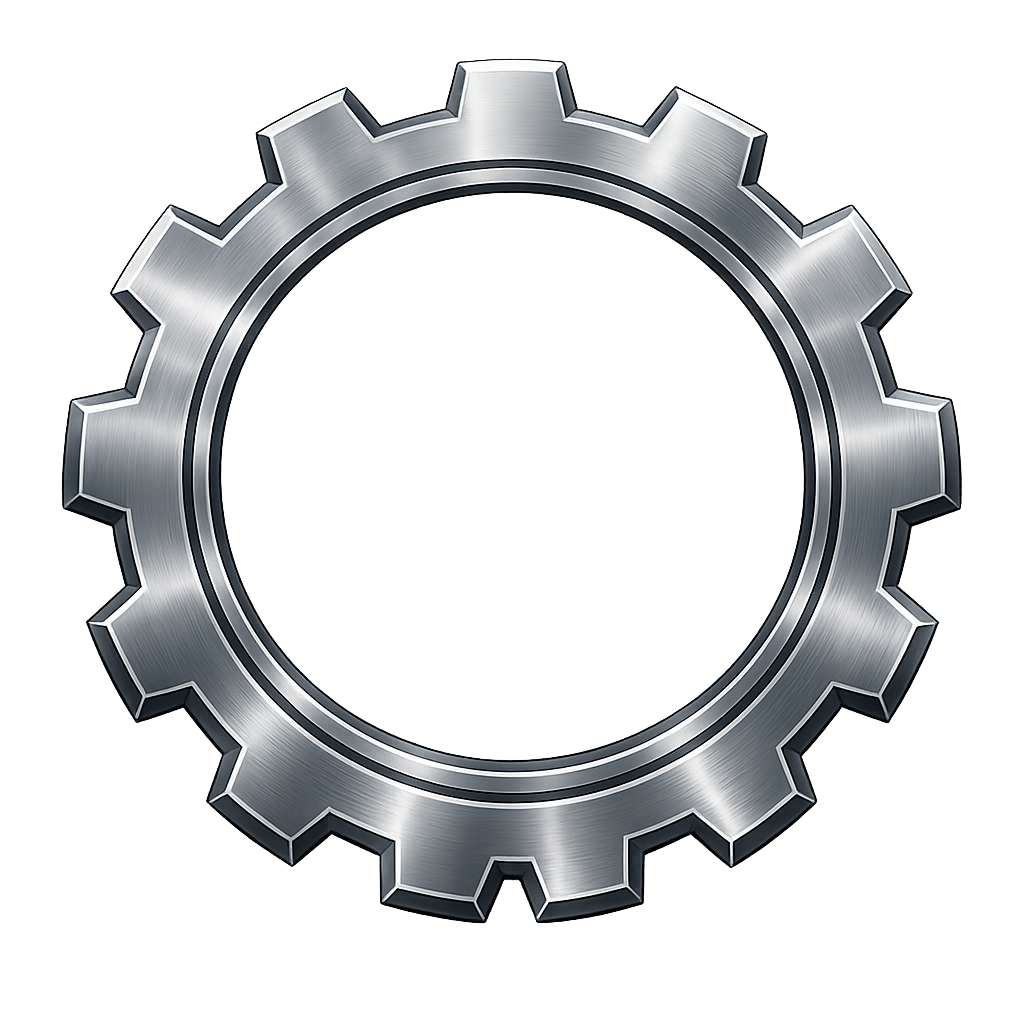
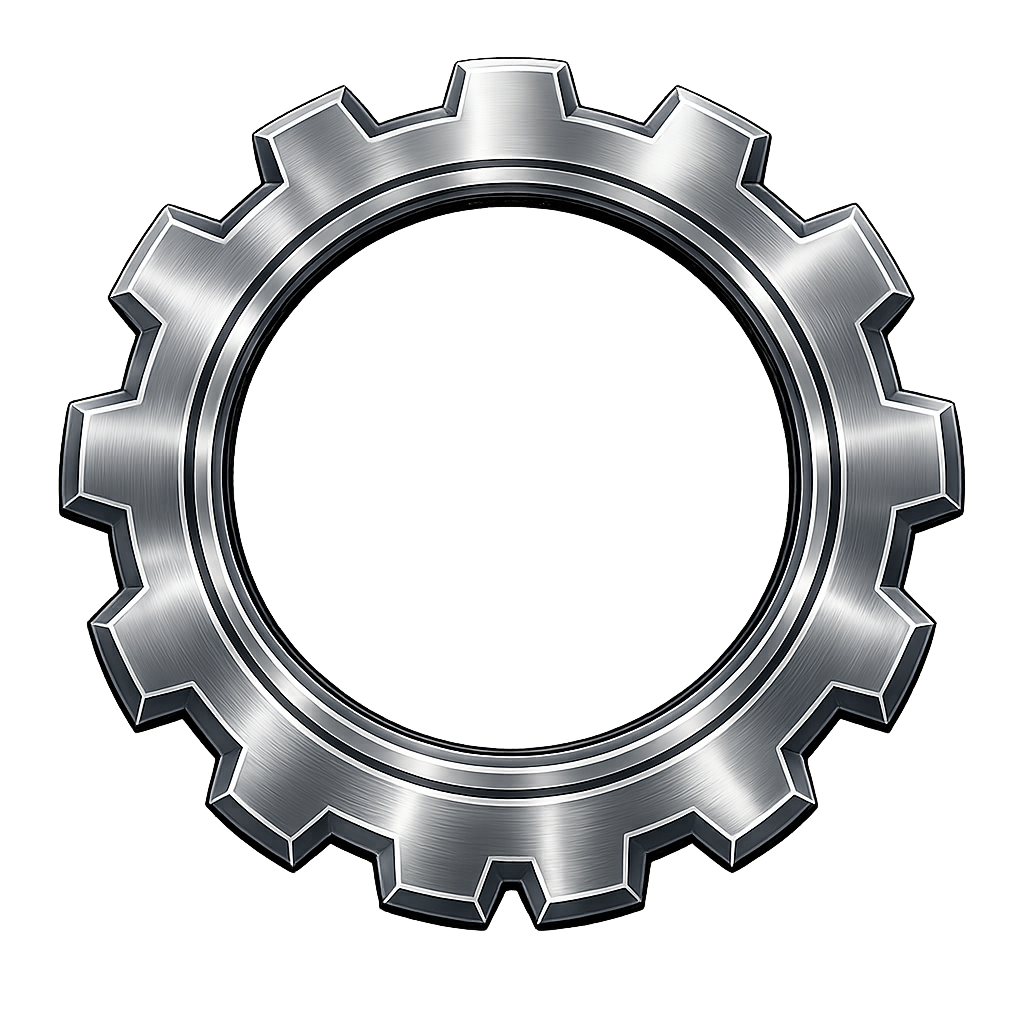
Refactor NetworkTree component to adjust spoke start radius for improved visual alignment; update hub disc styling and enhance interaction feedback

Changed region(s): [[0.0312, 0.0625, 0.9688, 0.9062], [0.4688, 0.0312, 0.5, 0.0625]]

diff --git a/components/NetworkTree.tsx b/components/NetworkTree.tsx
@@ -54,6 +54,14 @@ const ALL_PAIRS: [PersonaSlug, PersonaSlug][] = PERSONAS.flatMap((persona, i) =>
   PERSONAS.slice(i + 1).map((other): [PersonaSlug, PersonaSlug] => [persona.slug, other.slug])
 );
 
+// Hub spokes start at this radius (viewBox units) instead of the exact
+// center, because the hub disc is transparent — the cogwheel opening shows
+// the real section background, so nothing masks lines that would otherwise
+// converge under the anchor. The cog ring body spans ~9.7–15.1 units at the
+// 448px container and ~8.5–13.2 units at 512px, so 11.5 keeps the line ends
+// tucked under the gear at every breakpoint that renders the SVG.
+const SPOKE_START_RADIUS = 11.5;
+
 function isPairLit(a: PersonaSlug, b: PersonaSlug, active: ActiveTarget) {
   if (active === "aso") return true;
   if (active === null) return false;
@@ -70,29 +78,32 @@ const LINE_TRANSITION_CLASSES =
 function AnchorVisual({ engaged, targeted }: { engaged: boolean; targeted: boolean }) {
   return (
     <div className="relative flex h-44 w-44 items-center justify-center">
-      {/* 1. Orange glow — furthest back */}
+      {/* 1. Orange glow — furthest back. Annular: the center stays fully
+          transparent out past the cogwheel's opening so the hole shows the
+          real section background with no orange tint; the glow ring sits
+          over the gear body and just beyond it. Feathering comes mostly
+          from the gradient itself — blur is kept moderate so it doesn't
+          smear orange back into the open center. */}
       <div
         aria-hidden="true"
-        className={`pointer-events-none absolute inset-0 -z-20 rounded-full blur-2xl transition-[opacity,transform] duration-300 ease-out motion-reduce:transition-none ${
+        className={`pointer-events-none absolute inset-0 -z-20 rounded-full blur-lg transition-[opacity,transform] duration-300 ease-out motion-reduce:transition-none ${
           engaged ? "scale-[1.7] opacity-100" : "scale-150 opacity-75"
         }`}
         style={{
           background:
-            "radial-gradient(circle, rgba(255,122,26,0.55) 0%, rgba(255,122,26,0.18) 50%, transparent 75%)",
+            "radial-gradient(circle, transparent 0%, transparent 42%, rgba(255,122,26,0.5) 60%, rgba(255,122,26,0.18) 78%, transparent 95%)",
         }}
       />
 
-      {/* 2. Solid navy hub disc + anchor logo — same navy token as the
-          section background, fully opaque so lines never show through. At
-          rest the border is the same navy token as the fill (not
-          "transparent," an actual matching color), so it is guaranteed
-          indistinguishable from the disc rather than merely invisible. It
-          only turns orange when the hub itself is targeted, as interaction
-          feedback. The glow and cogwheel carry the hub's visual weight, not
-          the disc. */}
+      {/* 2. Hub ring + anchor logo. Deliberately unfilled: a painted disc
+          can never match the section's rendered background (navy token plus
+          gradient/glow overlays), so the cogwheel opening shows the actual
+          page background instead. Spokes stop at SPOKE_START_RADIUS, so
+          nothing needs masking here. The border is the only paint — orange
+          when the hub itself is targeted, invisible at rest. */}
       <div
-        className={`relative z-10 flex h-28 w-28 items-center justify-center rounded-full border-2 bg-aso-navy transition-colors duration-200 ease-out motion-reduce:transition-none ${
-          targeted ? "border-aso-orange" : "border-aso-navy"
+        className={`relative z-10 flex h-28 w-28 items-center justify-center rounded-full border-2 bg-transparent transition-colors duration-200 ease-out motion-reduce:transition-none ${
+          targeted ? "border-aso-orange" : "border-transparent"
         }`}
       >
         <Image
@@ -104,7 +115,7 @@ function AnchorVisual({ engaged, targeted }: { engaged: boolean; targeted: boole
           // content bbox: horizontal reset to 0 (prior measured corrections
           // oscillated), small upward bias retained.
           style={{ transform: "translate(0, -1px)" }}
-          className={`h-20 w-auto object-contain drop-shadow-[0_2px_6px_rgba(0,0,0,0.45)] transition-[filter] duration-300 ease-out motion-reduce:transition-none ${
+          className={`h-20 w-auto object-contain drop-shadow-[0_1px_4px_rgba(0,0,0,0.3)] transition-[filter] duration-300 ease-out motion-reduce:transition-none ${
             engaged ? "brightness-110" : "brightness-100"
           }`}
         />
@@ -186,13 +197,15 @@ export default function NetworkTree() {
         <div className="relative mx-auto aspect-square w-full max-w-lg lg:mx-0 lg:max-w-md lg:shrink-0">
           <svg viewBox="0 0 100 100" className="absolute inset-0 h-full w-full" aria-hidden="true">
             {PERSONAS.map((persona) => {
-              const pos = polar(MEMBER_LAYOUT[persona.slug].angle, MEMBER_LAYOUT[persona.slug].radius);
+              const { angle, radius } = MEMBER_LAYOUT[persona.slug];
+              const start = polar(angle, SPOKE_START_RADIUS);
+              const pos = polar(angle, radius);
               const lit = isSpokeLit(persona.slug, active);
               return (
                 <line
                   key={`hub-${persona.slug}`}
-                  x1={CENTER.x}
-                  y1={CENTER.y}
+                  x1={start.x}
+                  y1={start.y}
                   x2={pos.x}
                   y2={pos.y}
                   className={LINE_TRANSITION_CLASSES}
